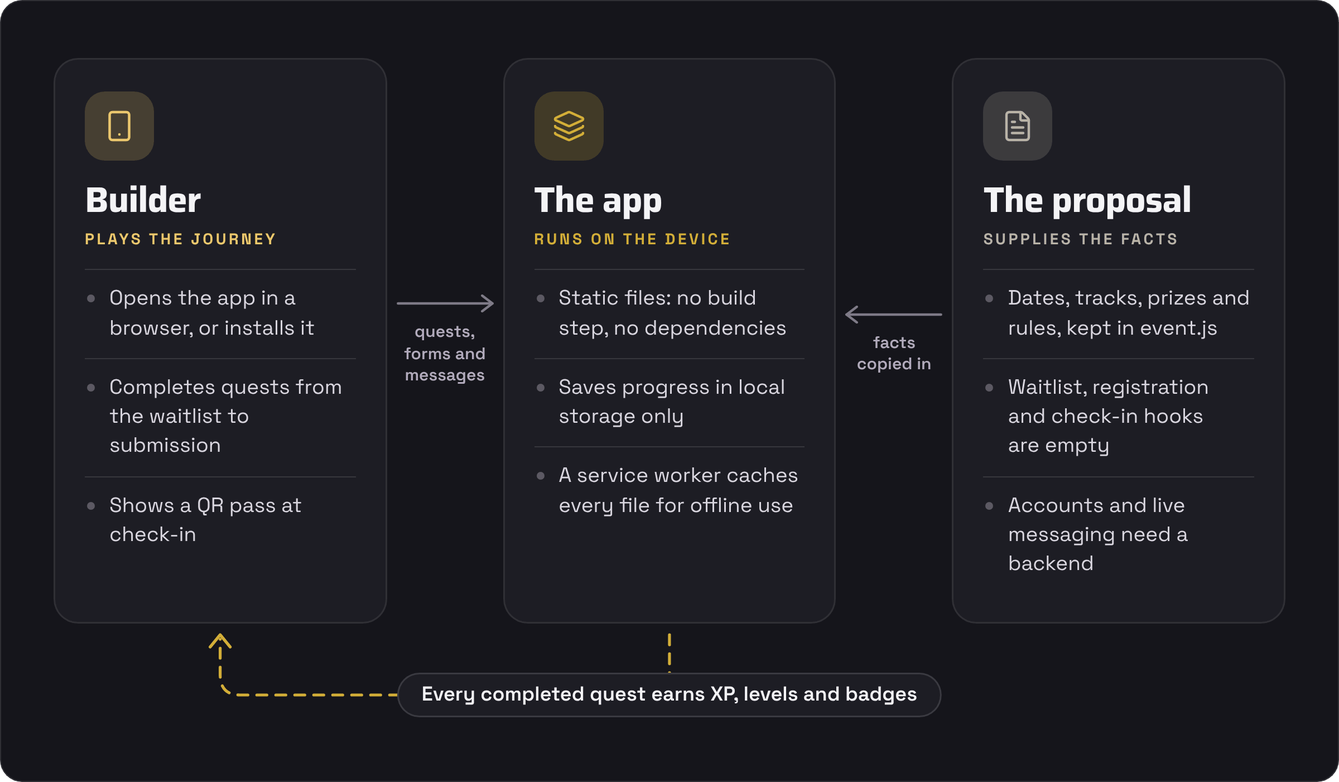
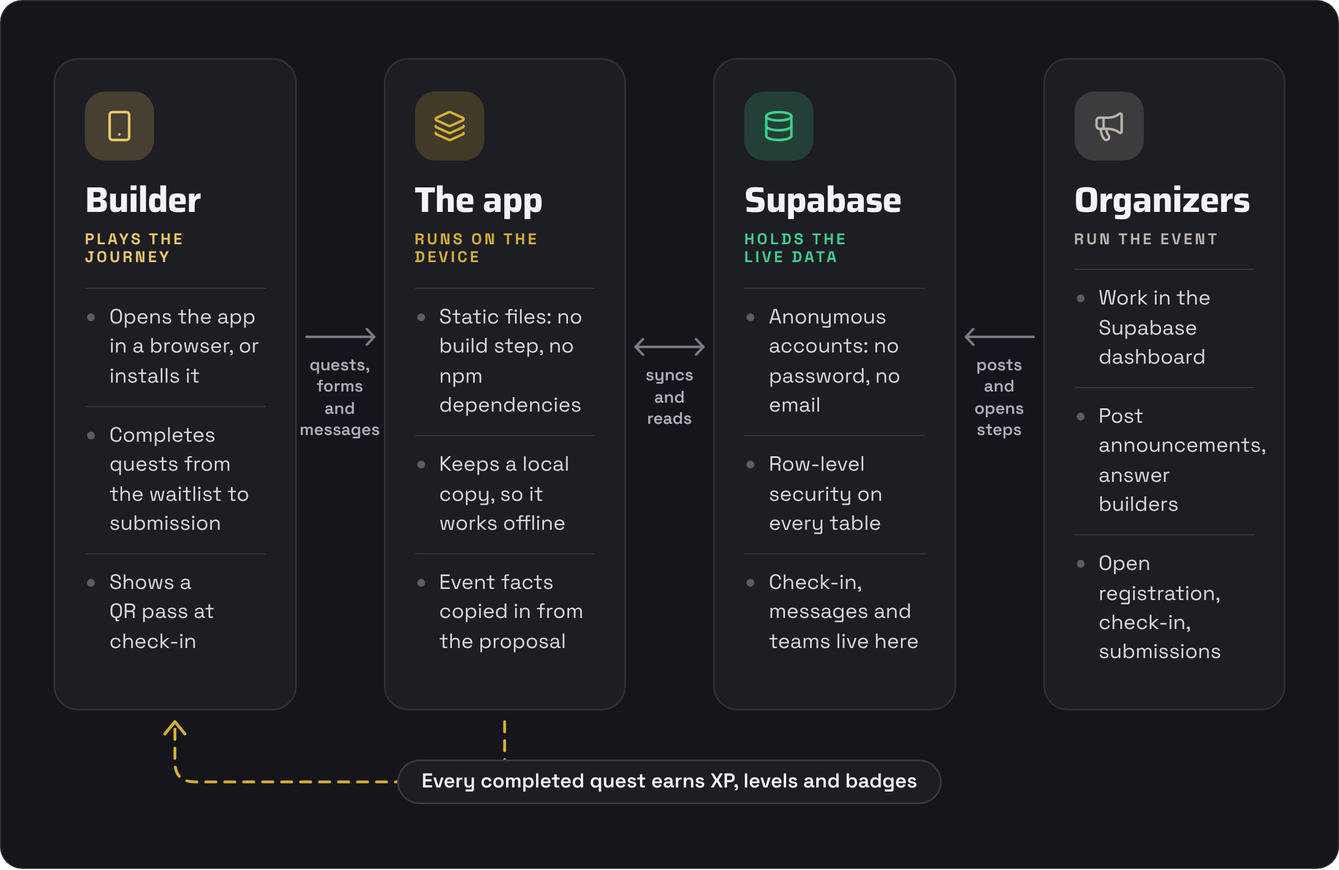
docs: update the README for the live Supabase services
The README said everything people enter stays on their own device and listed
real services as planned. Accounts, the waitlist, messages, teams,
submissions and check-in now run on Supabase, so:

- the summary, the steps, Honest by design and Status describe the live
  services, anonymous accounts, hidden profiles and Delete my data;
- Run it locally warns that a local copy talks to the live project;
- Live services carries the dashboard settings, the organizer runbook and
  how to change the database, from main's README, word for word;
- the screens and banner are recaptured from the merged code, connected to
  the in-memory Supabase from tests/fake-supabase.mjs with every other
  request blocked, so nothing reached the live project;
- the flow card adds Supabase and the organizers; the test count is 51.

Claude-Session: https://claude.ai/code/session_01TZhsuWjATuivuiFYJGpbY5

diff --git a/README.md b/README.md
@@ -1,6 +1,6 @@
 <div align="center">
 
-<img src="docs/readme/banner.png" alt="Dragon Connector, the participant app for Da Nang / 001, an installable PWA. Every step is a quest. An installable companion for a proposed Solana Mobile and AI hackathon in Da Nang. It works offline and keeps what you enter on your device. 21 quests worth 1,400 XP, a QR check-in pass, teammate matching, works offline, at dragonconnectorapp.vercel.app. Status: event in planning. Beside the copy, three phones running the app: the home screen at level 3, Builder, with 390 XP, the quest log, and the Dragon Guide answering when the event is." width="100%">
+<img src="docs/readme/banner.png" alt="Dragon Connector, the participant app for Da Nang / 001, an installable PWA. Every step is a quest. An installable companion for a proposed Solana Mobile and AI hackathon in Da Nang. It works offline and syncs to an anonymous account when it can. 21 quests worth 1,400 XP, a QR check-in pass, live messages and teams, works offline, at dragonconnectorapp.vercel.app. Status: event in planning. Beside the copy, three phones running the app: the quest log at 390 of 1,400 XP, the home screen at level 3, Builder, and Messages, with the organizers' announcements and the Dragon Guide." width="100%">
 
 <br><br>
 
@@ -13,8 +13,9 @@
 <a href="https://dragonconnectorapp.vercel.app"><img src="https://img.shields.io/website?url=https%3A%2F%2Fdragonconnectorapp.vercel.app&label=app&up_message=live&down_message=down&up_color=34d399&labelColor=0B0B0B&style=flat-square" alt="App status"></a>
 <img src="https://img.shields.io/badge/event-in_planning-D4AF37?style=flat-square&labelColor=0B0B0B" alt="Event: in planning">
 <img src="https://img.shields.io/badge/PWA-installable%2C_works_offline-EBC76E?style=flat-square&labelColor=0B0B0B" alt="PWA: installable, works offline">
-<img src="https://img.shields.io/badge/build-none%2C_no_dependencies-9A7624?style=flat-square&labelColor=0B0B0B" alt="No build step and no dependencies">
-<img src="https://img.shields.io/badge/tests-27_node%3Atest-339933?style=flat-square&logo=nodedotjs&logoColor=white&labelColor=0B0B0B" alt="27 node:test tests">
+<img src="https://img.shields.io/badge/backend-Supabase-3ECF8E?style=flat-square&logo=supabase&logoColor=white&labelColor=0B0B0B" alt="Backend: Supabase">
+<img src="https://img.shields.io/badge/build-none%2C_no_npm_dependencies-9A7624?style=flat-square&labelColor=0B0B0B" alt="No build step and no npm dependencies">
+<img src="https://img.shields.io/badge/tests-51_node%3Atest-339933?style=flat-square&logo=nodedotjs&logoColor=white&labelColor=0B0B0B" alt="51 node:test tests">
 <a href="LICENSE"><img src="https://img.shields.io/badge/license-MIT-6F6163?style=flat-square&labelColor=0B0B0B" alt="License: MIT"></a>
 
 <h3>Every step from the waitlist to your demo is a quest.</h3>
@@ -27,6 +28,7 @@
 <a href="#honest-by-design">Honest by design</a> &nbsp;·&nbsp;
 <a href="#status">Status</a> &nbsp;·&nbsp;
 <a href="#run-it-locally">Run it locally</a> &nbsp;·&nbsp;
+<a href="#live-services">Live services</a> &nbsp;·&nbsp;
 <a href="#pwa">PWA</a> &nbsp;·&nbsp;
 <a href="#deploy">Deploy</a>
 
@@ -36,14 +38,14 @@
 
 <picture>
   <source media="(prefers-color-scheme: dark)" srcset="docs/readme/screens-dark.png">
-  <img src="docs/readme/screens-light.png" alt="Four phone screens of the app in Preview mode with a demo builder. 01, follow the path: seven steps from the waitlist to your demo, with the next one in gold; the waitlist, pre-registration and tour are done and check-in is next. 02, pre-register: five steps, checked as you go and saved as you type, on your device; step 3 of 5, event details, asks which proposed format you could attend. 03, carry your pass: a personal QR pass that opens offline, plus venue-code check-in; the pass shows the code DC-7KQ4-M2XP for Alex Tran. 04, find your crew: builders ranked by how well they complement you, with the reasons; Aiko S., a product designer, matches at 72 and Khoa N., a Solana developer, at 69, both labelled as sample profiles." width="100%">
+  <img src="docs/readme/screens-light.png" alt="Four phone screens of the app with a demo builder, Alex Tran. 01, follow the path: seven steps from the waitlist to your demo, with the next one in gold; the waitlist, pre-registration and tour are done, and check-in opens on event day. 02, pre-register: five steps, checked as you go, saved on your device and to your account; the saved pre-registration lists Alex's details and says they are saved on this device and to the Dragon Connector account. 03, carry your pass: a QR pass that opens offline, with the code DC-7KQ4-M2XP and a note that check-in opens at the venue on event day; self check-in opens on event day. 04, find your crew: builders who chose to be found, ranked with the reasons, and samples are labelled; no builders have shown their profile yet, and Aiko S., a product designer, matches at 72 and Khoa N., a Solana developer, at 69, both labelled as sample profiles." width="100%">
 </picture>
 
-<p align="center"><sub>Captured from a local build on 31 October 2026, in Preview mode with the demo builder from <code>scripts/render-assets.cjs</code>. Nothing was sent anywhere.</sub></p>
+<p align="center"><sub>Captured from a local build on 31 October 2026 with the demo builder from <code>scripts/render-assets.cjs</code>, connected to the in-memory Supabase from <code>tests/fake-supabase.mjs</code>. Nothing was sent to the live project.</sub></p>
 
-**This is the participant app for Dragon Connector · Da Nang / 001, a proposed Solana Mobile and AI hackathon in Da Nang, Vietnam: an installable, gamified web app that works offline.** Every step of the journey is a quest that earns XP, from the waitlist to registration, onboarding, check-in, finding teammates, messaging and submitting a project. The event is in planning. Dates, the venue, funding and prizes are proposals, and registration is not open. The app says so wherever it matters, and everything people enter stays on their own device.
+**This is the participant app for Dragon Connector · Da Nang / 001, a proposed Solana Mobile and AI hackathon in Da Nang, Vietnam: an installable, gamified web app that works offline.** Every step of the journey is a quest that earns XP, from the waitlist to registration, onboarding, check-in, finding teammates, messaging and submitting a project. Live services run on Supabase: the waitlist, accounts, builder profiles, messages, teams, submissions and check-in. The event is in planning. Dates, the venue, funding and prizes are proposals, and registration is not open. The app says so wherever it matters, and every form says where its data goes.
 
-Its facts come from the proposal at [dragonconnector.vercel.app](https://dragonconnector.vercel.app) (source: `operatoruplift/da-nang-hackathon-proposal`, a private repository), as revised on 29 October 2026, and it wears the event's identity, Dragon Connector Brand System v1.0, with the edition line **DA NANG / 001** and the tagline **BUILD. SHIP. CONNECT.** Built by Matt ([RVAClassic](https://x.com/rvaclassic), [Operator Uplift](https://operatoruplift.com)), Lead Executive Producer and Organizer of the proposed event, on 30 October 2026.
+Its facts come from the proposal at [dragonconnector.vercel.app](https://dragonconnector.vercel.app) (source: `operatoruplift/da-nang-hackathon-proposal`, a private repository), as revised on 29 October 2026, and it wears the event's identity, Dragon Connector Brand System v1.0, with the edition line **DA NANG / 001** and the tagline **BUILD. SHIP. CONNECT.** Built by Matt ([RVAClassic](https://x.com/rvaclassic), [Operator Uplift](https://operatoruplift.com)), Lead Executive Producer and Organizer of the proposed event, on 30 October 2026, and connected to Supabase on 31 October.
 
 <br>
 
@@ -51,13 +53,13 @@ Its facts come from the proposal at [dragonconnector.vercel.app](https://dragonc
 
 <picture>
   <source media="(prefers-color-scheme: dark)" srcset="docs/readme/flow-dark.png">
-  <img src="docs/readme/flow-light.png" alt="Builder, the app and the proposal. The builder plays the journey: opens the app in a browser or installs it, completes quests from the waitlist to submission, and shows a QR pass at check-in. The app runs on the device: static files with no build step and no dependencies, progress saved in local storage only, and a service worker that caches every file for offline use. The proposal supplies the facts: dates, tracks, prizes and rules, kept in event.js; the waitlist, registration and check-in hooks are empty; accounts and live messaging need a backend. Arrows: quests, forms and messages go from the builder to the app, and facts are copied in from the proposal. A dashed loop from the app back to the builder: every completed quest earns XP, levels and badges." width="100%">
+  <img src="docs/readme/flow-light.png" alt="Builder, the app, Supabase and the organizers. The builder plays the journey: opens the app in a browser or installs it, completes quests from the waitlist to submission, and shows a QR pass at check-in. The app runs on the device: static files with no build step and no npm dependencies, a local copy so it works offline, and event facts copied in from the proposal. Supabase holds the live data: anonymous accounts with no password and no email, row-level security on every table, and check-in, messages and teams. The organizers run the event: they work in the Supabase dashboard, post announcements, answer builders, and open registration, check-in and submissions. Arrows: quests, forms and messages go from the builder to the app; the app syncs with and reads from Supabase; the organizers post and open steps in Supabase. A dashed loop from the app back to the builder: every completed quest earns XP, levels and badges." width="100%">
 </picture>
 
 <table>
   <tr valign="top">
     <td width="33%"><b>XP cannot drift</b><br><sub>XP is never stored. It is always the sum of the quests completed, and a quest stays complete once earned. 21 quests worth 1,400 XP lead through seven levels, from Hatchling to Dragon, and ten badges.</sub></td>
-    <td width="33%"><b>Matches show their reasons</b><br><sub>Teammates ranks builders by how well they complement you: different roles, shared tracks, new skills and matching goals. Every card lists the top reasons behind its score, and filters narrow by role, track or co-founder search.</sub></td>
+    <td width="33%"><b>Matches show their reasons</b><br><sub>Teammates ranks the builders who chose to show their profile by how well they complement you: different roles, shared tracks, new skills and matching goals. Every card lists the top reasons behind its score, and labelled sample profiles sit below the real builders.</sub></td>
     <td width="33%"><b>A guide that cannot invent</b><br><sub>The Dragon Guide answers from the event data with keyword matching, so it can only repeat what the app already knows, caveats included. Five suggested questions start the conversation.</sub></td>
   </tr>
 </table>
@@ -92,12 +94,12 @@ Home shows the journey as a path, with the next step in gold. Each step is a que
   </tr>
   <tr valign="top">
     <td><b>5. Teammates and co-founders</b></td>
-    <td>Builders ranked by how well they complement you, with the reasons. Filters, search, intros, team creation and invites.</td>
+    <td>Real builders who chose to show their profile, ranked by how well they complement you, with the reasons. Filters, search, intros, live teams and invitations.</td>
     <td>+100</td>
   </tr>
   <tr valign="top">
     <td><b>6. Messages</b></td>
-    <td>Organizer announcements, team chat, direct messages and the Dragon Guide. The Guide answers questions from the event data and keeps the caveats.</td>
+    <td>Organizer announcements, live direct messages, team chat, a private channel to the organizers, and the Dragon Guide. The Guide answers questions from the event data and keeps the caveats.</td>
     <td>+75</td>
   </tr>
   <tr valign="top">
@@ -109,7 +111,7 @@ Home shows the journey as a path, with the next step in gold. Each step is a que
 
 The other 14 quests reward the rest of the app, such as building your profile, asking the Guide a question or reading every guide. **Explore** holds guides, docs (draft rules, code of conduct, privacy, FAQ), sponsors and the partner programme, the schedule for both proposed formats with saved sessions, quests and personal tasks, the requirements checklist, an illustrative venue map, and the planned prize pool with the judging rubric.
 
-<p align="center"><sub>Static HTML · CSS · JavaScript modules with no framework and no build step · local storage · service worker and web app manifest · qrcode-generator 2.0.4, vendored · Oxanium, Space Grotesk and IBM Plex Mono, self-hosted, the last two with Vietnamese subsets · node:test · Vercel</sub></p>
+<p align="center"><sub>Static HTML · CSS · JavaScript modules with no framework and no build step · Supabase (Postgres with row-level security, anonymous sign-ins, realtime) through supabase-js 2.118.0, vendored · local storage · service worker and web app manifest · qrcode-generator 2.0.4, vendored · Oxanium, Space Grotesk and IBM Plex Mono, self-hosted, the last two with Vietnamese subsets · node:test · Vercel</sub></p>
 
 <br>
 
@@ -121,16 +123,24 @@ The other 14 quests reward the rest of the app, such as building your profile, a
     <th width="74%" align="left">What the app does</th>
   </tr>
   <tr valign="top">
-    <td><b>On this device only</b></td>
-    <td>Everything people enter stays in the browser's local storage until real services are connected (see <a href="#connect-real-services">Connect real services</a>). The screens say so, and so does the privacy doc.</td>
+    <td><b>Plain about data</b></td>
+    <td>Builders get an anonymous account (no password, no login email) the first time they save something, message someone or open Teammates. Browsing creates nothing. What they enter is also kept on the device, so the app works offline and syncs later. Each form says where its data goes, and the privacy doc lists who can see what. <b>Delete my data</b> in Settings removes the server copy and clears the device.</td>
+  </tr>
+  <tr valign="top">
+    <td><b>Consent for older data</b></td>
+    <td>Details saved before accounts were connected were promised to stay on the device. They stay there until the builder chooses <b>Connect my details</b>.</td>
+  </tr>
+  <tr valign="top">
+    <td><b>Profiles hidden by default</b></td>
+    <td>Other builders see a profile only if its owner ticks "Show my profile to other builders", or once they message each other or join the same team.</td>
   </tr>
   <tr valign="top">
     <td><b>Preview mode</b></td>
-    <td>Settings unlocks registration, check-in and submission on the device for demos. A Preview badge shows while it is on. The preview check-in code is <code>DRAGON-001</code>.</td>
+    <td>Settings unlocks registration, check-in and submission on the device for demos. A Preview badge shows while it is on. The preview check-in code is <code>DRAGON-001</code>. Preview check-ins and submissions are never sent to the organizers.</td>
   </tr>
   <tr valign="top">
     <td><b>Sample profiles</b></td>
-    <td>The teammates directory uses twelve fictional profiles, each labelled "Sample profile". Messages and invitations to them stay on the device and are not answered.</td>
+    <td>Twelve fictional profiles stay below the real builders, each labelled "Sample profile", so matching can be tried before many people have joined. Messages and invitations to them stay on the device and are not answered.</td>
   </tr>
   <tr valign="top">
     <td><b>No sponsors, no prospects</b></td>
@@ -155,19 +165,24 @@ The tests enforce these rules: no prospect names, no "apply now", no screen clai
     <td width="22%"><a href="#deploy">Deploy</a></td>
   </tr>
   <tr valign="top">
+    <td align="center"><img src="https://img.shields.io/badge/LIVE-34d399?style=for-the-badge" alt="Live"></td>
+    <td>The live services: the waitlist, anonymous accounts, builder profiles, messages, teams, submissions and check-in, in the Supabase project <code>ondistgfpmodesjrharp</code>, hosted in the United States (Ohio), behind row-level security. Accounts need anonymous sign-ins switched on in the Supabase dashboard. Until they are, the app says "Accounts are not switched on yet", the waitlist still works, and everything else stays on the device.</td>
+    <td><a href="#live-services">Live services</a></td>
+  </tr>
+  <tr valign="top">
     <td align="center"><img src="https://img.shields.io/badge/PROPOSAL-D4AF37?style=for-the-badge" alt="Proposal"></td>
     <td>The event itself. Dragon Connector · Da Nang / 001 is proposed for Sunday 13 December 2026 (one day) or Saturday 12 and Sunday 13 December 2026 (two daytime sessions) at Swinburne University Vietnam, a proposed venue whose booking is not confirmed. Dates, the venue, funding and prizes are proposals.</td>
     <td><a href="https://dragonconnector.vercel.app">The proposal</a></td>
   </tr>
   <tr valign="top">
-    <td align="center"><img src="https://img.shields.io/badge/PREVIEW-9A7624?style=for-the-badge" alt="Preview only"></td>
-    <td>Registration, check-in and submission. Registration is not open, and check-in and submissions open on event day. Until then, Preview mode unlocks all three on one device behind a Preview badge, and nothing is sent anywhere.</td>
+    <td align="center"><img src="https://img.shields.io/badge/CLOSED-9A7624?style=for-the-badge" alt="Closed"></td>
+    <td>Registration, check-in and submission. Registration is not open, and check-in and submissions open on event day. The organizers open each one with a switch in the database. Until then, Preview mode unlocks all three on one device behind a Preview badge, and nothing done in Preview reaches the organizers.</td>
     <td><a href="#honest-by-design">Honest by design</a></td>
   </tr>
   <tr valign="top">
     <td align="center"><img src="https://img.shields.io/badge/PLANNED-6F6163?style=for-the-badge" alt="Planned"></td>
-    <td>Real services. The waitlist endpoint, the official registration page and the venue check-in code are all empty in <code>INTEGRATIONS</code>, so entries stay on the device. Accounts, live messaging between builders, real teams and stored submissions need a backend with authentication.</td>
-    <td><a href="#connect-real-services">Connect real services</a></td>
+    <td>Its own domain. Until it moves, the app stays at the test address above, and the page asks search engines not to index it.</td>
+    <td><a href="#deploy">Deploy</a></td>
   </tr>
 </table>
 
@@ -178,10 +193,12 @@ The tests enforce these rules: no prospect names, no "apply now", no screen clai
 <table>
   <tr valign="top">
     <td width="33%"><b>Prerequisites</b><br><sub>Node 20 or newer for the tests, and Python 3 for <code>npm start</code> (or any static file server pointed at <code>public/</code>). There are no dependencies to install.</sub></td>
-    <td width="33%"><b>Read first</b><br><sub><a href="#honest-by-design">Honest by design</a> before changing any wording, and <a href="#configure-the-event">Configure the event</a> before changing a date, a prize or a gate.</sub></td>
-    <td width="33%"><b>What the checks prove</b><br><sub>27 <code>node:test</code> cases: the quest engine, matching, validation, the Guide and escaping, the proposal's schedules and prizes, every link and screen, and the PWA files.</sub></td>
+    <td width="33%"><b>Read first</b><br><sub><a href="#honest-by-design">Honest by design</a> before changing any wording, and <a href="#live-services">Live services</a> before touching data: a local copy talks to the live project.</sub></td>
+    <td width="33%"><b>What the checks prove</b><br><sub>51 <code>node:test</code> cases: the quest engine, matching, validation, the Guide and escaping, the proposal's schedules and prizes, every link and screen, the PWA files, and the live services against an in-memory Supabase.</sub></td>
   </tr>
 </table>
+
+> **A local copy uses real data.** The app talks to the live Supabase project from any address. Saving something, messaging someone or opening Teammates on `localhost` creates a real anonymous account, and what you save lands in the real tables, so test with care and clear up with **Delete my data** in Settings.
 
 ### 1. Serve the app
 
@@ -197,7 +214,13 @@ It is a static site with no build step and no dependencies, so after `npm start`
 npm test    # node --test tests/*.test.mjs, the same command Vercel runs as its build step
 ```
 
-The 27 tests cover the quest engine, the store, matching, validation, the Dragon Guide and HTML escaping. They also check that the schedules and prizes match the proposal (405 and 795 build minutes; $800, $1,500 and $3,000), that every in-app link leads somewhere, that the PWA manifest and icons are valid, and that every screen renders for a new and a busy builder.
+The tests cover the quest engine, the store, matching, validation, the Dragon Guide and HTML escaping. They also check that:
+
+- the schedules and prizes match the proposal (405 and 795 build minutes; $800, $1,500 and $3,000);
+- every in-app link leads somewhere, and the PWA manifest and icons are valid;
+- every screen renders for a new and a busy builder, in every connection state, without turning anything another builder wrote into markup.
+
+The live services are tested against an in-memory Supabase ([`tests/fake-supabase.mjs`](tests/fake-supabase.mjs)): accounts, syncing, offline and reconnecting, messages, teams, check-in and deleting data. Static checks make sure every table has row-level security, every function pins its search path, and every table, column, function and argument the app uses exists in [`supabase/migrations`](supabase/migrations). The app ships only the public anon key, and the security policy allows only this project.
 
 <br>
 
@@ -210,21 +233,71 @@ Edit [`public/src/data/event.js`](public/src/data/event.js):
 - **Dates and programme:** `FORMATS`.
 - **Tracks, judging and prizes:** `TRACKS`, `JUDGING` and `PRIZES`.
 - **FAQ:** `FAQS`.
-- **Opening a step:** `GATES`. Set `registration.open` to `true` when registration opens.
+- **Opening a step:** the organizers' switches in the database decide (see [Live services](#live-services), under "Run the event from the dashboard"). `GATES` holds the fallback the app uses before it has heard from the server.
+- **An external registration page:** `INTEGRATIONS.registrationUrl`, if registration moves elsewhere. Once registration is open, the registration screen links to it.
 
 Then run `npm run precache` and `npm test`. The content tests check the schedules still add up.
 
-Some tests pin today's state on purpose: registration closed, every `INTEGRATIONS` value `null` and `SPONSORS` empty. Opening registration, connecting a service or naming a sponsor fails `npm test`, and so the Vercel build, until the tests that pin it change in the same commit: `tests/content.test.mjs` in every case, `tests/engine.test.mjs` for registration or a sponsor (the Dragon Guide's answers change), and `tests/views.test.mjs` for registration.
+Some tests pin today's state on purpose: the fallback `GATES.registration.open` is `false`, `INTEGRATIONS.registrationUrl` is `null` and `SPONSORS` is empty. Changing one fails `npm test`, and so the Vercel build, until the tests that pin it change in the same commit: `tests/content.test.mjs` in every case, and `tests/engine.test.mjs` when the Dragon Guide's answers about registration or sponsors change. Opening registration in the database needs no code change.
 
-### Connect real services
+<br>
 
-Settings live in `INTEGRATIONS` in [`public/src/data/event.js`](public/src/data/event.js):
+## Live services
 
-- **`waitlistEndpoint`:** an HTTPS URL that accepts a JSON POST of the entry, `{ name, email, role, track, joinedAt, sent }`, where `joinedAt` is a timestamp in milliseconds and `sent` is `false`. A 2xx response marks the entry as sent. Add its origin to `connect-src` in the [`vercel.json`](vercel.json) security policy. The waitlist copy and the privacy doc change automatically.
-- **`registrationUrl`:** the official registration page. Once registration is open, the registration screen links to it.
-- **`checkInCodeSha256`:** the SHA-256 hash of the venue code, so the code itself never appears in the public source. The app trims what people type, converts it to upper case and removes spaces before hashing, so hash the code in that form: `printf 'YOUR-CODE' | sha256sum`, then copy the hex digest.
+The project is `ondistgfpmodesjrharp` (https://ondistgfpmodesjrharp.supabase.co), hosted in the United States (Ohio). `INTEGRATIONS.supabase` in [`public/src/data/event.js`](public/src/data/event.js) holds its URL and anon key. The anon key is public by design: row-level security decides what it can reach. Never put a service_role or secret key in the app; a test fails if one appears. To use another project, change `INTEGRATIONS.supabase` and the `connect-src` of the security policy in [`vercel.json`](vercel.json) together (the tests require both to name the same project), then apply the migrations there.
 
-Accounts, live messaging between builders, real teams and stored submissions need a backend with authentication. Supabase is a natural fit. The store ([`public/src/lib/store.js`](public/src/lib/store.js)) is the place to sync from.
+Builders use anonymous accounts, so an account is a browser: there is no password, and clearing the browser's data loses access to it. The device keeps the source of truth for what a builder types (profile, pre-registration, submission and waitlist entry) and syncs a copy. The server is the source of truth for check-in, conversations and teams. The client library ([`public/src/vendor/supabase.js`](public/src/vendor/supabase.js), supabase-js 2.118.0) loads after the first render, so the app never waits for it.
+
+### One-time settings in the Supabase dashboard
+
+- **Allow anonymous sign-ins:** Authentication → Sign In / Providers. Until this is on, the waitlist still works but accounts cannot be created. The app says "Accounts are not switched on yet" and keeps everything else on the device.
+- **Rate limit for anonymous sign-ins:** Authentication → Rate Limits. Raise it before event day. The default allows about 30 new accounts per hour from one IP address, and a venue's Wi-Fi often shares one.
+- Consider CAPTCHA protection (Authentication → Attack Protection) if the app is promoted widely.
+
+<details>
+<summary><b>Run the event from the dashboard</b></summary>
+<br>
+
+Organizers use the Table Editor or the SQL editor. Both bypass row-level security.
+
+- **Waitlist, pre-registrations, submissions, check-ins:** the `waitlist`, `registrations`, `submissions` and `check_ins` tables. A pass code in `registrations.pass_code` matches the QR code a builder shows at the desk (`DC001:` followed by the pass code).
+- **Post an announcement.** It reaches open apps at once. A future `published_at` schedules it.
+
+  ```sql
+  insert into announcements (body) values ('Doors open at 08:00.');
+  ```
+
+- **Reply to a builder who asked the organizers.** Find the conversation in `conversations` (kind `organizers`, `pair_key` is `organizers:` followed by their account id). Set `from_organizers`, or the app shows the reply as from a former member.
+
+  ```sql
+  insert into messages (conversation_id, from_organizers, body) values ('<conversation id>', true, 'Thanks! The venue is not confirmed yet.');
+  ```
+
+- **Open a step:**
+
+  ```sql
+  update event_settings set registration_open = true;  -- also check_in_open, submissions_open
+  ```
+
+- **Set the venue code for self check-in.** It is never readable from the app. Each account gets ten tries per ten minutes.
+
+  ```sql
+  update event_secrets set check_in_code = 'GOLD-7';
+  ```
+
+- **Check someone in at the desk:**
+
+  ```sql
+  insert into check_ins (user_id) select user_id from registrations where pass_code = 'DC-7KQ4-M2XP';
+  ```
+
+</details>
+
+### Change the database
+
+Add a new file to [`supabase/migrations/`](supabase/migrations); never edit one that has been applied. Apply it to the project, then run `npm test`. The database tests check that every table has row-level security and that every table, column, function and argument the app uses exists.
+
+The file names match the versions in the project's migration history. That history also lists six unnamed migrations from September 2025, from an earlier prototype in the same project. The first migration here removes what they created.
 
 <br>
 
@@ -248,7 +321,7 @@ npm run assets     # icons from the brand SVGs, install screenshots from a demo 
 
 ## Deploy
 
-The Vercel project `dragonconnectorapp` deploys `main` to https://dragonconnectorapp.vercel.app, a public test address until the app moves to its own domain. It serves `public/` as a static site; [`vercel.json`](vercel.json) runs the tests as the build step and sets a strict Content Security Policy: everything loads from the app's own origin, nothing can frame it, and camera, microphone and geolocation are switched off. The page also asks search engines not to index it (`noindex,nofollow`).
+The Vercel project `dragonconnectorapp` deploys `main` to https://dragonconnectorapp.vercel.app, a public test address until the app moves to its own domain. It serves `public/` as a static site; [`vercel.json`](vercel.json) runs the tests as the build step and sets a strict Content Security Policy: everything loads from the app's own origin, connections go only to it and the Supabase project, nothing can frame it, and camera, microphone and geolocation are switched off. The page also asks search engines not to index it (`noindex,nofollow`).
 
 <details>
 <summary><b>Repository layout</b></summary>
@@ -259,20 +332,21 @@ The Vercel project `dragonconnectorapp` deploys `main` to https://dragonconnecto
 | `public/index.html` | The page shell |
 | `public/src/main.js` | Routing, the navigation, celebrations, install and offline |
 | `public/src/views/` | One module per screen (18 of them), plus shared helpers in `common.js`. Each exports `render(state, params, ctx)` plus named `actions`, `forms` and `inputs` that `main.js` wires up |
-| `public/src/lib/` | The logic, which runs without a browser: the store (`store.js`), the quests, levels and badges (`game.js`), matching (`match.js`), validation (`validate.js`), event time in ICT (`time.js`), gates (`gates.js`), the Dragon Guide (`guide.js`) and the escaping `html` template (`html.js`). `ui.js` (toasts, celebrations and the tour) and `icons.js` serve the views |
-| `public/src/data/` | The content: event facts (`event.js`), sample profiles (`people.js`), guides, docs, requirements and the map (`content.js`), and the starting conversations (`threads.js`) |
-| `public/src/vendor/` | qrcode-generator 2.0.4, unmodified, with its license |
+| `public/src/lib/` | The logic, which runs without a browser: the store (`store.js`), live services (`backend.js`), the quests, levels and badges (`game.js`), matching (`match.js`), validation (`validate.js`), event time in ICT (`time.js`), gates (`gates.js`), the Dragon Guide (`guide.js`) and the escaping `html` template (`html.js`). `ui.js` (toasts, celebrations and the tour) and `icons.js` serve the views |
+| `public/src/data/` | The content: event facts and the Supabase settings (`event.js`), sample profiles (`people.js`), guides, docs, requirements and the map (`content.js`), and the starting conversations (`threads.js`) |
+| `public/src/vendor/` | qrcode-generator 2.0.4 and the published UMD build of supabase-js 2.118.0, both unmodified, with their licenses |
 | `public/styles/app.css` | Dragon Connector Brand System v1.0: Obsidian `#0B0B0B`, Ivory `#F8F8F6` and Dragon Gold `#D4AF37` at about 70/20/10, with Oxanium, Space Grotesk and IBM Plex Mono, including Vietnamese subsets |
 | `public/brand/`, `public/fonts/`, `public/icons/` | Logos, self-hosted fonts with their licenses, app icons and install screenshots |
 | `public/sw.js`, `public/precache.js` | The service worker and its generated file list |
+| `supabase/migrations/` | The database: tables, row-level security policies and functions, in the order they were applied |
 | `scripts/` | `build-precache.mjs` (the cache list) and `render-assets.cjs` (icons and install screenshots) |
-| `tests/` | The 27 `node:test` cases |
+| `tests/` | The 51 `node:test` cases, and `fake-supabase.mjs`, an in-memory stand-in for the parts of supabase-js the app uses |
 | `docs/readme/` | The images in this README |
 
 </details>
 
 <br>
 
-<p align="center"><sub>The code is MIT licensed, copyright 2026 Operator Uplift (see <a href="LICENSE">LICENSE</a>). The fonts, Oxanium, Space Grotesk and IBM Plex Mono, keep the SIL Open Font License (<code>public/fonts/OFL-*.txt</code>), and the vendored <a href="https://github.com/kazuhikoarase/qrcode-generator">qrcode-generator</a> by Kazuhiko Arase keeps its MIT license (<code>public/src/vendor/</code>). "QR Code" is a registered trademark of DENSO WAVE INCORPORATED.</sub></p>
+<p align="center"><sub>The code is MIT licensed, copyright 2026 Operator Uplift (see <a href="LICENSE">LICENSE</a>). The fonts, Oxanium, Space Grotesk and IBM Plex Mono, keep the SIL Open Font License (<code>public/fonts/OFL-*.txt</code>). The vendored <a href="https://github.com/kazuhikoarase/qrcode-generator">qrcode-generator</a> by Kazuhiko Arase and <a href="https://github.com/supabase/supabase-js">supabase-js</a> keep their MIT licenses (<code>public/src/vendor/</code>). "QR Code" is a registered trademark of DENSO WAVE INCORPORATED.</sub></p>
 
 <p align="center"><sub>Built by <a href="https://rvaclassic.xyz">Matt Sim</a>, founder of <a href="https://operatoruplift.com">Operator Uplift</a>. More builds at <a href="https://github.com/operatoruplift">github.com/operatoruplift</a>. Want one built for your product? <a href="https://cal.com/rvaclassic/15min">Book a 15-minute call</a>.</sub></p>
